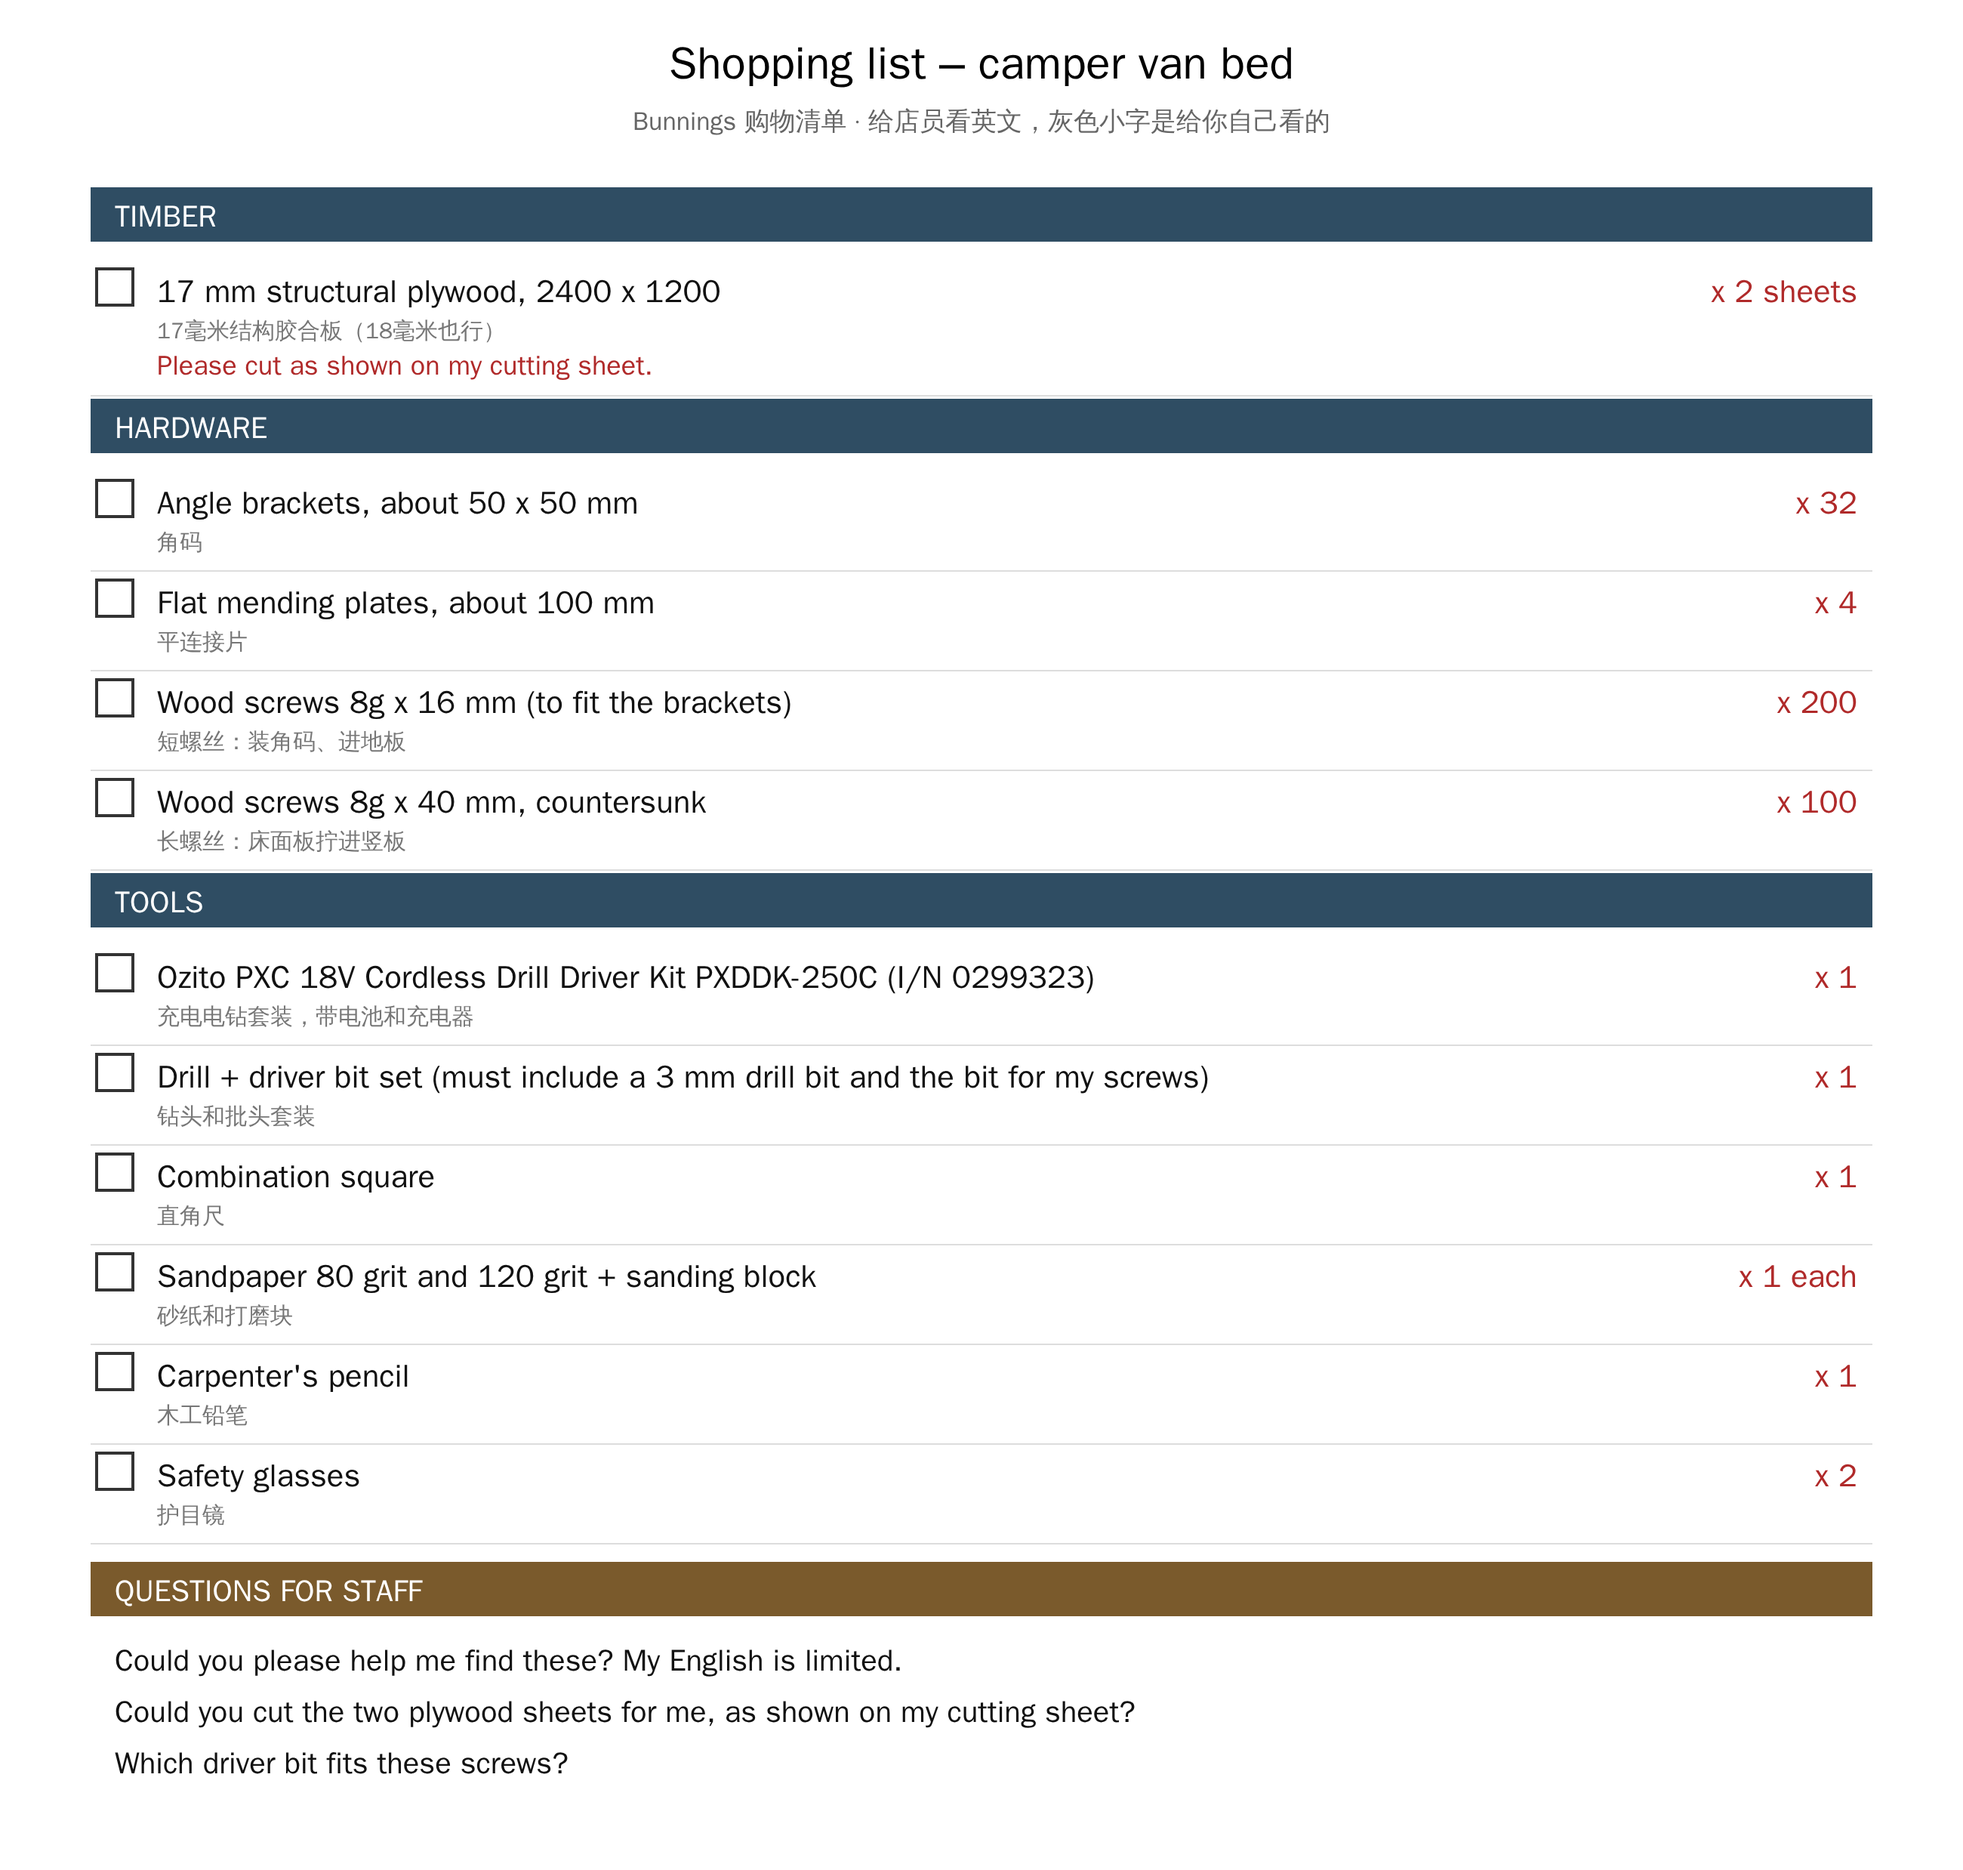
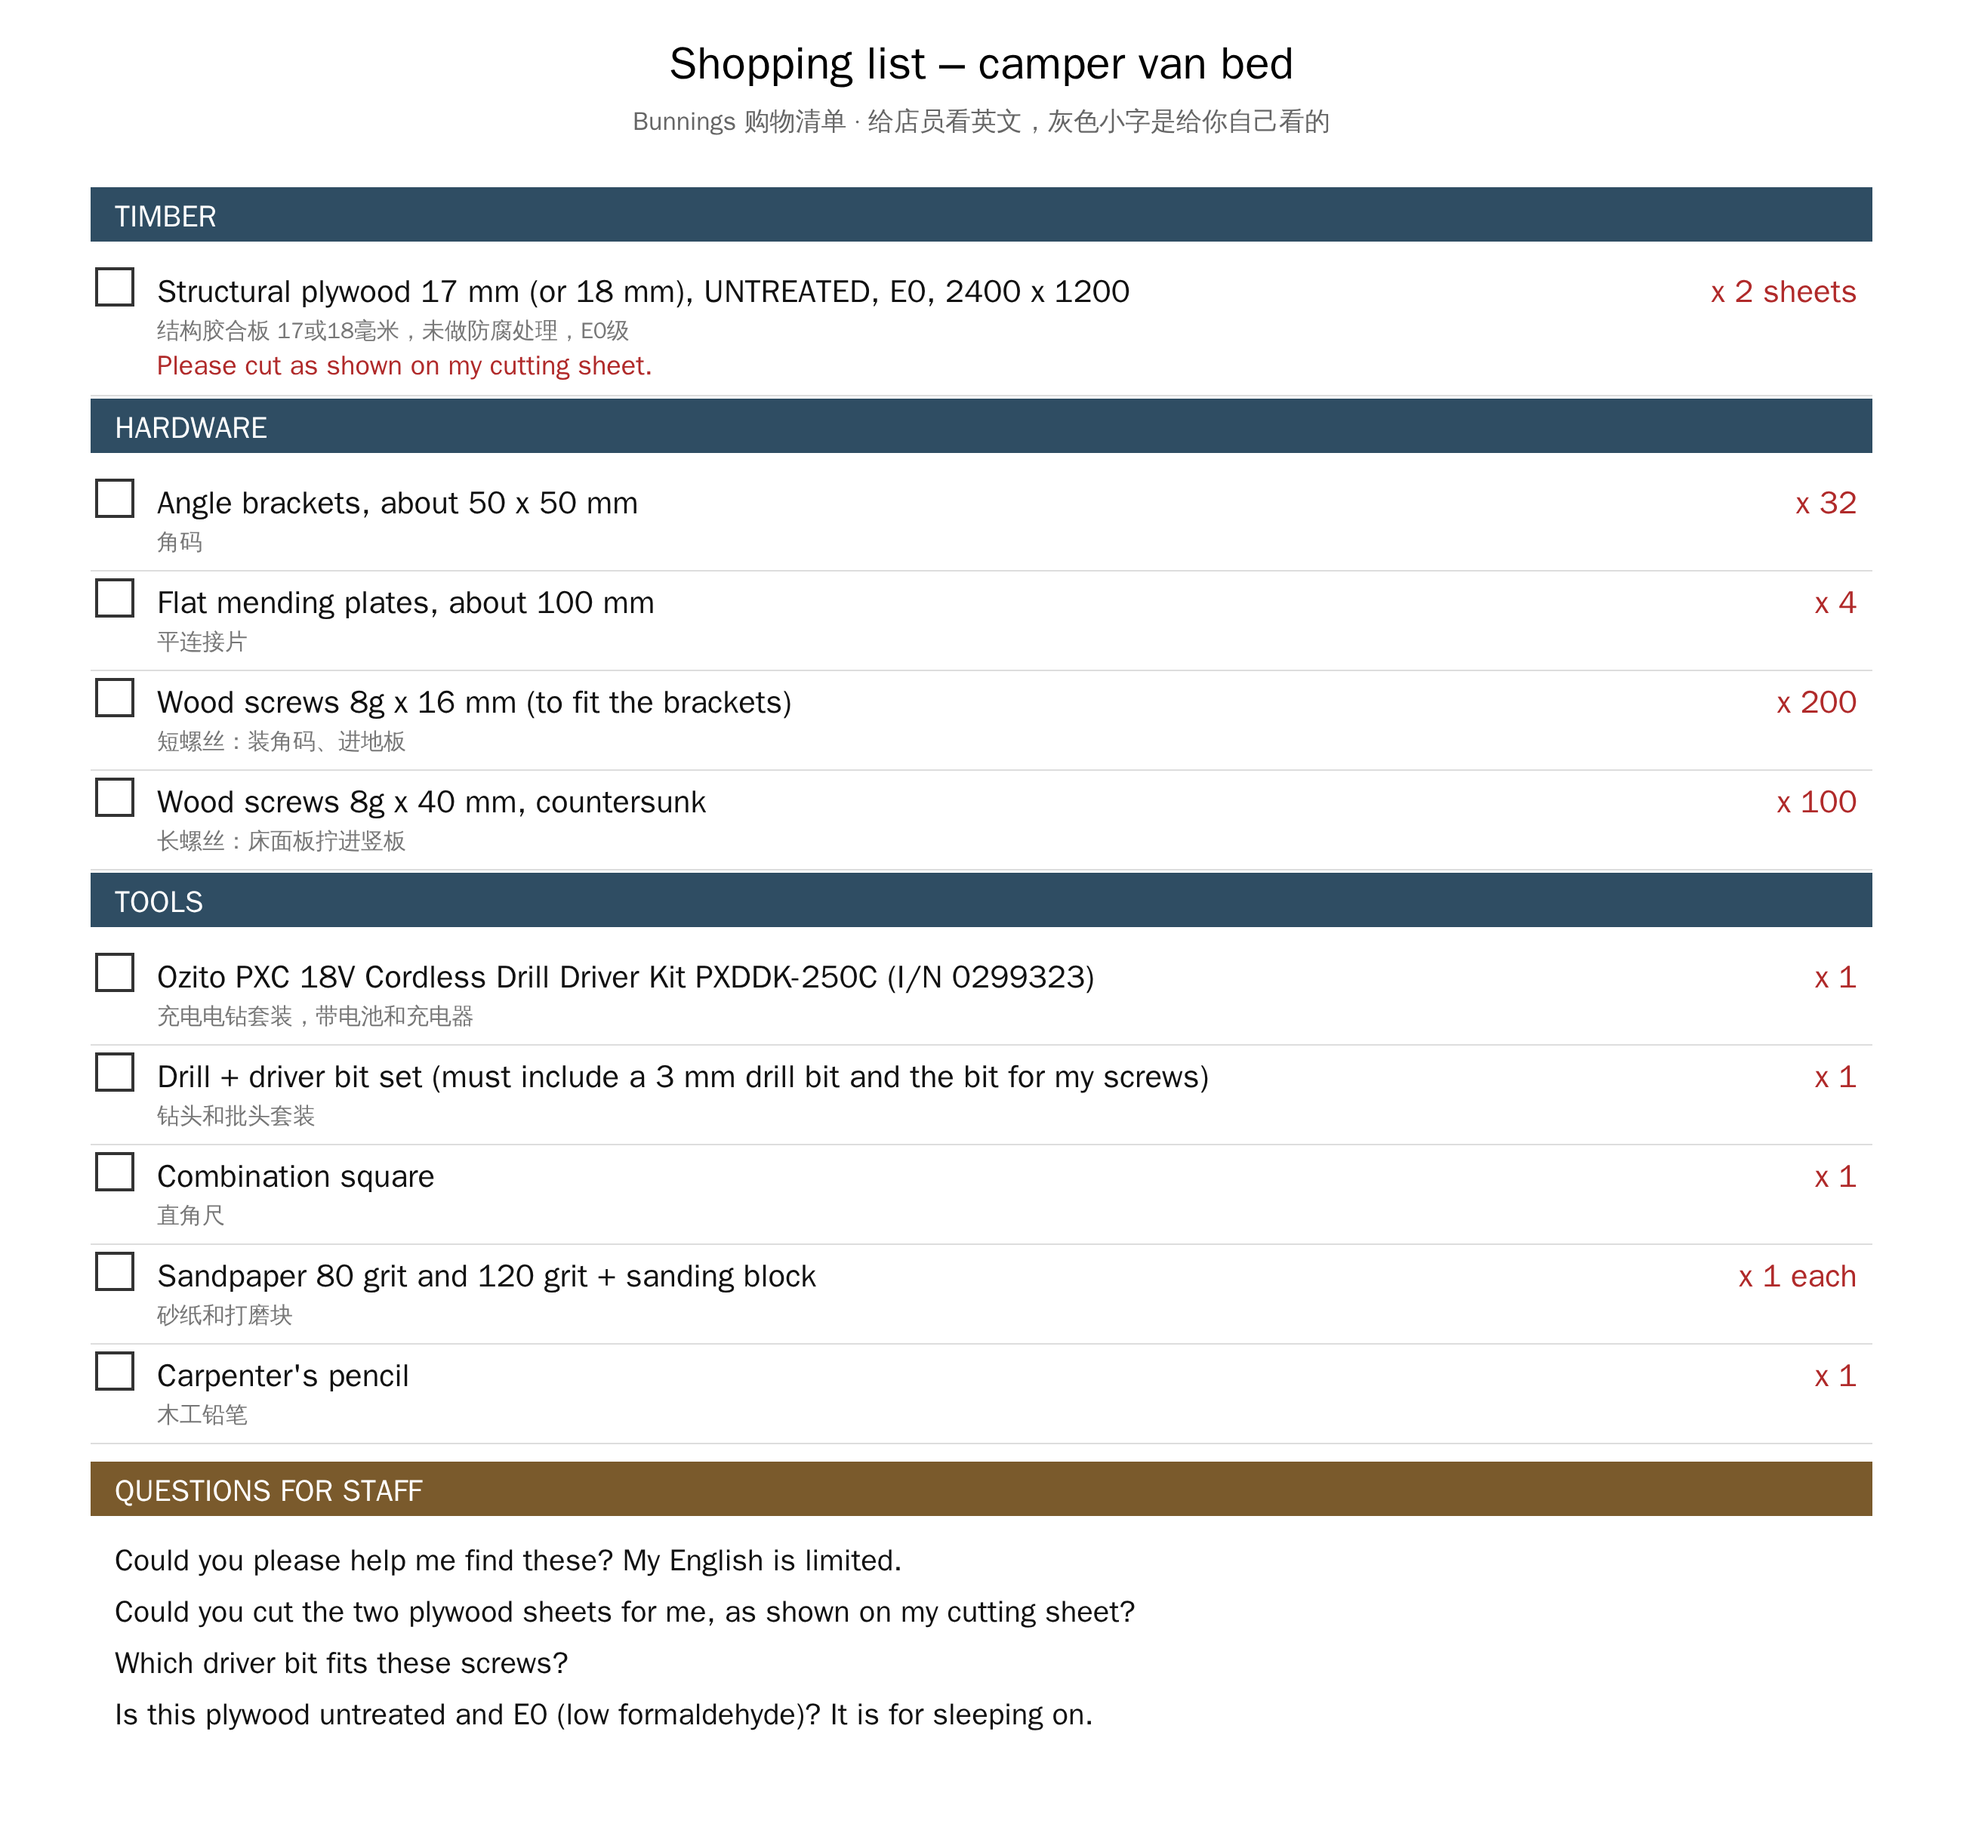
Shopping list: allow 18 mm, require untreated E0 plywood, drop safety glasses
Claude-Session: https://claude.ai/code/session_01WPwyTGQdLTwCJaMXsiybPN

Changed region(s): [[0.0312, 0.0933, 0.9658, 0.9639], [0.3427, 0.0311, 0.6542, 0.0933], [0.9035, 0.6841, 0.9346, 0.7152]]

diff --git a/drawings/shopping.py b/drawings/shopping.py
@@ -7,7 +7,7 @@ FONT = "WenQuanYi Zen Hei, Arial, sans-serif"
 
 ITEMS = [
     ("TIMBER", None, None, None),
-    ("17 mm structural plywood, 2400 x 1200", "x 2 sheets", "17毫米结构胶合板（18毫米也行）", "Please cut as shown on my cutting sheet."),
+    ("Structural plywood 17 mm (or 18 mm), UNTREATED, E0, 2400 x 1200", "x 2 sheets", "结构胶合板 17或18毫米，未做防腐处理，E0级", "Please cut as shown on my cutting sheet."),
     ("HARDWARE", None, None, None),
     ("Angle brackets, about 50 x 50 mm", "x 32", "角码", None),
     ("Flat mending plates, about 100 mm", "x 4", "平连接片", None),
@@ -19,7 +19,6 @@ ITEMS = [
     ("Combination square", "x 1", "直角尺", None),
     ("Sandpaper 80 grit and 120 grit + sanding block", "x 1 each", "砂纸和打磨块", None),
     ("Carpenter's pencil", "x 1", "木工铅笔", None),
-    ("Safety glasses", "x 2", "护目镜", None),
 ]
 
 
@@ -51,6 +50,7 @@ def build():
         "Could you please help me find these? My English is limited.",
         "Could you cut the two plywood sheets for me, as shown on my cutting sheet?",
         "Which driver bit fits these screws?",
+        "Is this plywood untreated and E0 (low formaldehyde)? It is for sleeping on.",
     ]
     rows.append(f'<rect x="60" y="{y-26}" width="{W-120}" height="36" fill="#7a5a2c"/>'
                 f'<text x="76" y="{y}" font-size="20" fill="#fff" font-weight="bold">QUESTIONS FOR STAFF</text>')
